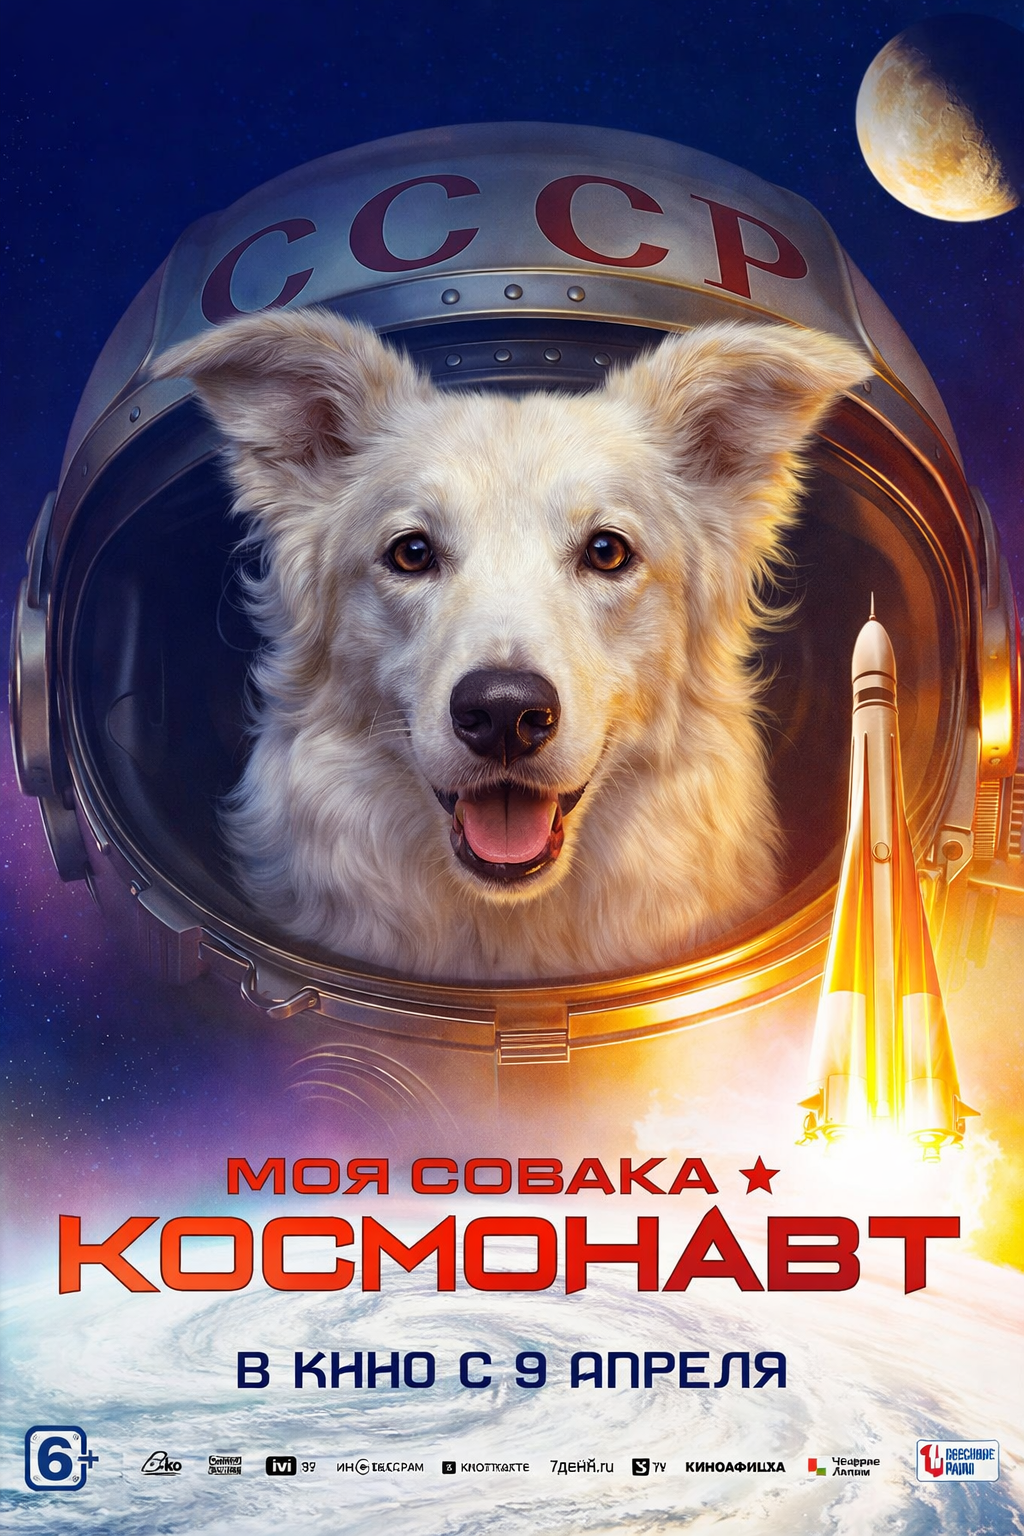
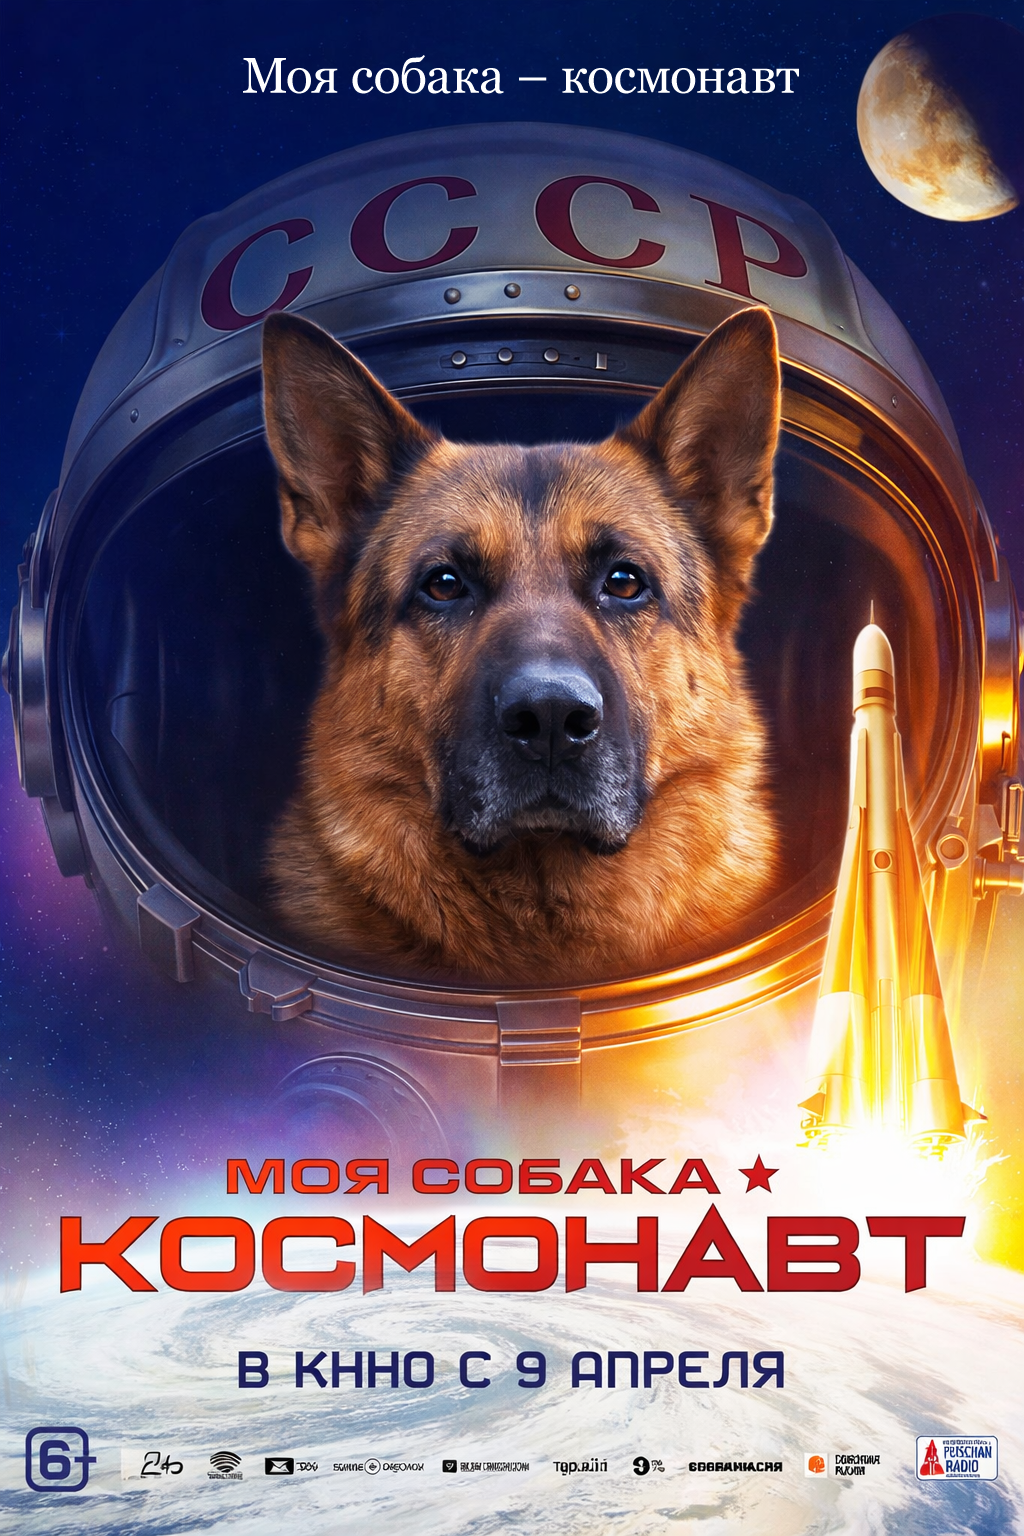
Добавлено отображение occlusion_mask.png

diff --git a/app/pipelines/render_pipeline.py b/app/pipelines/render_pipeline.py
@@ -328,8 +328,13 @@ class RenderPipeline:
                         }
                         logger.info(f"Job {job_id}: ✅ Dog integrated successfully using LLM (no old compositing)")
 
+                        # Применяем occlusion_mask и glass_fx поверх результата от KIE.ai
+                        final_image = self._apply_post_ai_layers(
+                            final_image, template_config, debug, storage, job_id
+                        )
+
                         # 05_refined_pass1.png - это финальное изображение
-                        # KIE.ai обновляет собаку прямо в постере, результат используется как есть
+                        # KIE.ai обновляет собаку прямо в постере, затем применяются маски
                         if debug:
                             storage.save_debug(final_image, "05_refined_pass1.png")
                         
@@ -396,3 +401,77 @@ class RenderPipeline:
             if debug:
                 storage.save_metadata(metadata)
             raise
+
+    def _apply_post_ai_layers(
+        self,
+        image: Image.Image,
+        template_config: dict[str, Any],
+        debug: bool,
+        storage: Storage,
+        job_id: str,
+    ) -> Image.Image:
+        """
+        Apply occlusion_mask and glass_fx layers on top of AI result.
+        
+        Args:
+            image: Image from KIE.ai
+            template_config: Template configuration
+            debug: Debug mode
+            storage: Storage instance
+            job_id: Job ID
+            
+        Returns:
+            Final image with layers applied
+        """
+        from pathlib import Path
+        
+        result = image.convert("RGBA")
+        template_dir = Path(template_config.get("_template_dir", ""))
+        
+        # Apply occlusion_mask if present
+        if "assets" in template_config and "occlusion_mask" in template_config["assets"]:
+            occlusion_path = template_dir / template_config["assets"]["occlusion_mask"]
+            if occlusion_path.exists():
+                try:
+                    logger.info(f"Job {job_id}: Applying occlusion_mask...")
+                    occlusion = Image.open(occlusion_path).convert("RGBA")
+                    
+                    # Resize occlusion_mask to match image size
+                    if occlusion.size != result.size:
+                        occlusion = occlusion.resize(result.size, Image.Resampling.LANCZOS)
+                    
+                    # Composite occlusion_mask on top
+                    result = Image.alpha_composite(result, occlusion)
+                    logger.info(f"Job {job_id}: ✅ occlusion_mask applied")
+                    
+                    if debug:
+                        storage.save_debug(result.convert("RGB"), "06_after_occlusion_mask.png")
+                except Exception as e:
+                    logger.warning(f"Job {job_id}: Failed to apply occlusion_mask: {e}")
+            else:
+                logger.warning(f"Job {job_id}: occlusion_mask not found: {occlusion_path}")
+        
+        # Apply glass_fx if present
+        if "assets" in template_config and "glass_fx" in template_config["assets"]:
+            glass_path = template_dir / template_config["assets"]["glass_fx"]
+            if glass_path.exists():
+                try:
+                    logger.info(f"Job {job_id}: Applying glass_fx...")
+                    glass = Image.open(glass_path).convert("RGBA")
+                    
+                    # Resize glass_fx to match image size
+                    if glass.size != result.size:
+                        glass = glass.resize(result.size, Image.Resampling.LANCZOS)
+                    
+                    # Composite glass_fx on top
+                    result = Image.alpha_composite(result, glass)
+                    logger.info(f"Job {job_id}: ✅ glass_fx applied")
+                    
+                    if debug:
+                        storage.save_debug(result.convert("RGB"), "07_after_glass_fx.png")
+                except Exception as e:
+                    logger.warning(f"Job {job_id}: Failed to apply glass_fx: {e}")
+            else:
+                logger.warning(f"Job {job_id}: glass_fx not found: {glass_path}")
+        
+        return result.convert("RGB")

diff --git a/templates/korolek/README.md b/templates/korolek/README.md
@@ -1,0 +1,40 @@
+# Шаблон dog_cosmonaut_v1
+
+## Требуемые файлы
+
+Для работы шаблона необходимо подготовить следующие файлы:
+
+1. **base_clean.png** (1024x1536)
+   - Постер без исходной собаки
+   - Фон и все элементы, кроме собаки
+
+2. **occlusion_mask.png** (1024x1536, RGBA)
+   - Элементы, которые должны перекрывать вставленную собаку
+   - Например: части шлема, руки космонавта и т.д.
+   - Белый/непрозрачный = перекрывает, черный/прозрачный = не перекрывает
+
+3. **glass_fx.png** (1024x1536, RGBA, опционально)
+   - Эффекты: блики на стекле, засветы, шум
+   - Может быть пустым (полностью прозрачным)
+
+## Подготовка шаблона
+
+1. Откройте исходный постер в графическом редакторе
+2. Удалите/закрасьте исходную собаку → сохраните как `base_clean.png`
+3. Выделите элементы перекрытия → сохраните как `occlusion_mask.png`
+4. При необходимости создайте эффекты → сохраните как `glass_fx.png`
+5. Настройте параметры в `template_config.json`:
+   - `insert_zone` - зона вставки собаки
+   - `crop_expansion` - расширение кропа
+   - `placement` - параметры размещения
+   - `postprocess` - параметры постобработки
+
+## Проверка
+
+После подготовки файлов проверьте:
+
+```bash
+python main.py --input test_dog.jpg --template dog_cosmonaut_v1 --debug
+```
+
+Все промежуточные этапы будут сохранены в `runs/debug/<job_id>/`
